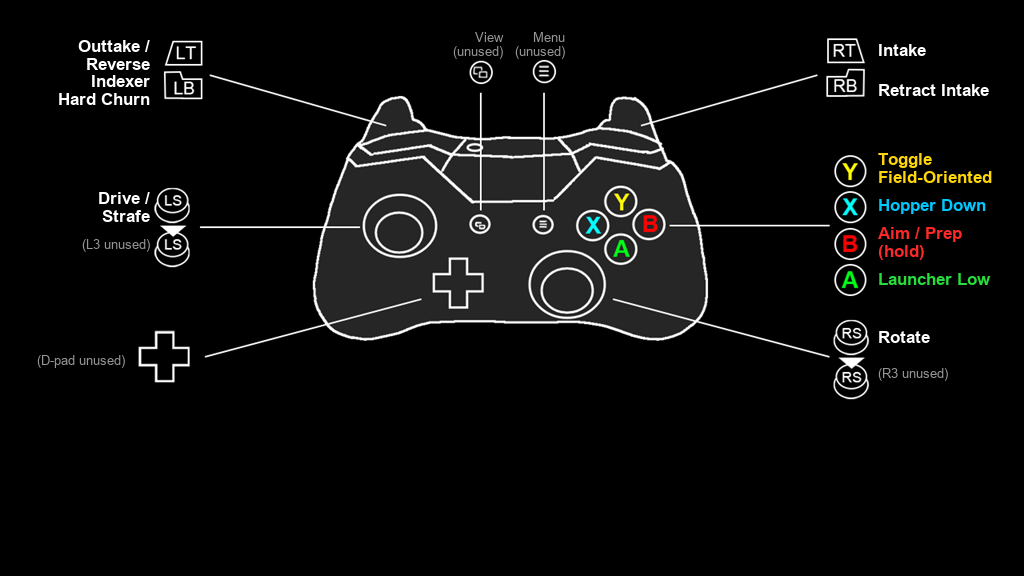
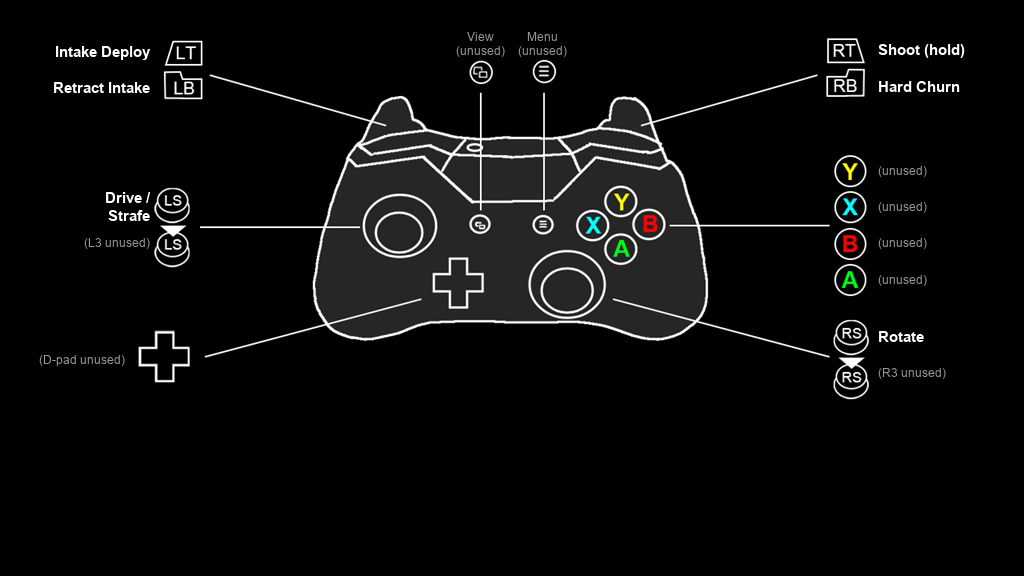
Remap driver controls: shoot on RT, drop face buttons
- RT (hold) now aims/preps and shoots (was B); releasing returns to LOW
- LT deploys the intake; it no longer reverses/outtakes the intake
- LB retracts the intake (was RB); RB is indexer hard churn (was LB)
- Remove driver A (launcher low), B (prep) and X (hopper down) bindings
- Add Constants.Launcher.SHOOT_TRIGGER_THRESHOLD
- Redraw pictures/driver_labeled.png for the new layout

diff --git a/src/main/java/frc/robot/rebuilt/commands/IntakeCommands.java b/src/main/java/frc/robot/rebuilt/commands/IntakeCommands.java
@@ -103,39 +103,23 @@ public class IntakeCommands {
   }
 
   public void configureButtonBindings(Controller controller, Controller operator) {
-    controller.setRightTrigger(
-        controller.createRightTrigger().limit(Constants.Intake.INTAKE_MAX_IN));
-    Trigger rightTrigger =
-        new Trigger(() -> controller.getRightTrigger() > Constants.Intake.INTAKE_DEADZONE);
-    controller.setLeftTrigger(
-        controller
-            .createLeftTrigger()
-            .limit(Constants.Intake.INTAKE_MAX_IN)); // Axis are positive only hence IN
+    // Driver: LT deploys the intake, LB retracts it. RT is the shoot trigger (LauncherCommands).
+    controller.setLeftTrigger(controller.createLeftTrigger());
     Trigger leftTrigger =
         new Trigger(() -> controller.getLeftTrigger() > Constants.Intake.INTAKE_DEADZONE);
 
-    rightTrigger.onTrue(shouldIntaking());
     leftTrigger.onTrue(shouldIntaking());
 
-    controller.createRightBumper().onTrue(shouldRetracting());
+    controller.createLeftBumper().onTrue(shouldRetracting());
     // Must be runOnce: a run() never ends and would re-write the encoder position every loop.
     operator.createStartButton().onTrue(Commands.runOnce(() -> intake.setHopperRetracted()));
     operator.createBackButton().onTrue(Commands.runOnce(() -> intake.setHopperDeployed()));
 
-    controller.createXButton().onTrue(operatorHopperDownCommand());
     // operator.createRightBumper().onTrue(shouldAngled()).onFalse(shouldIntaking());
 
     intakeSpeedSupplier =
         () -> {
-          double rightTriggerSpeed = controller.getRightTrigger();
-          double leftTriggerSpeed = controller.getLeftTrigger();
-          double speed = Constants.Intake.INTAKE_IN; // Default speed if neither trigger is pressed
-          if (rightTriggerSpeed > Constants.Intake.INTAKE_DEADZONE
-              || leftTriggerSpeed > Constants.Intake.INTAKE_DEADZONE) {
-            speed =
-                rightTriggerSpeed
-                    - leftTriggerSpeed; // Positive for intaking, negative for outtaking
-          }
+          double speed = Constants.Intake.INTAKE_IN;
           if (RobotState.isAutonomous()) {
             speed = Constants.Intake.INTAKE_AUTO; // Intake in speed in auto
           }

diff --git a/src/main/java/frc/robot/rebuilt/commands/LauncherCommands.java b/src/main/java/frc/robot/rebuilt/commands/LauncherCommands.java
@@ -203,10 +203,11 @@ public class LauncherCommands {
 
   public void configureButtonBindings(Controller driver, Controller operator) {
 
-    // driver.createAButton().onTrue(shouldPrepCommand());
-    driver.createBButton().whileTrue(shouldPrepCommand()).onFalse(shouldLowCommand());
-
-    driver.createAButton().onTrue(shouldLowCommand()).onFalse(shouldLowCommand());
+    // Hold RT to aim/prep and shoot; releasing drops the launcher back to LOW.
+    driver.setRightTrigger(driver.createRightTrigger());
+    new Trigger(() -> driver.getRightTrigger() > Constants.Launcher.SHOOT_TRIGGER_THRESHOLD)
+        .whileTrue(shouldPrepCommand())
+        .onFalse(shouldLowCommand());
 
     operator
         .createLeftPovButton()

diff --git a/src/main/java/frc/robot/rebuilt/commands/IndexerCommands.java b/src/main/java/frc/robot/rebuilt/commands/IndexerCommands.java
@@ -39,7 +39,7 @@ public class IndexerCommands {
   public void configureButtonBindings(Controller driver, Controller operator) {
     // driver.createLeftBumper().onTrue(toggleForceFeed());
     // driver.createLeftBumper().whileTrue(shouldForceCommand()).onFalse(shouldChurnCommand());
-    driver.createLeftBumper().whileTrue(shouldHardChurnCommand()).onFalse(shouldChurnCommand());
+    driver.createRightBumper().whileTrue(shouldHardChurnCommand()).onFalse(shouldChurnCommand());
     operator
         .createLeftBumper()
         .whileTrue(

diff --git a/src/main/java/frc/robot/rebuilt/Constants.java b/src/main/java/frc/robot/rebuilt/Constants.java
@@ -18,6 +18,7 @@ public class Constants {
   }
 
   public static class Launcher {
+    public static final double SHOOT_TRIGGER_THRESHOLD = 0.25;
     public static final double SHOOTER_TOLERANCE_RPM = 50.0;
     public static final double HOOD_ANGLE_TOLERANCE_DEGREES = 3.5;
     public static final double TURRET_ANGLE_TOLERANCE_DEGREES = 5.0;
